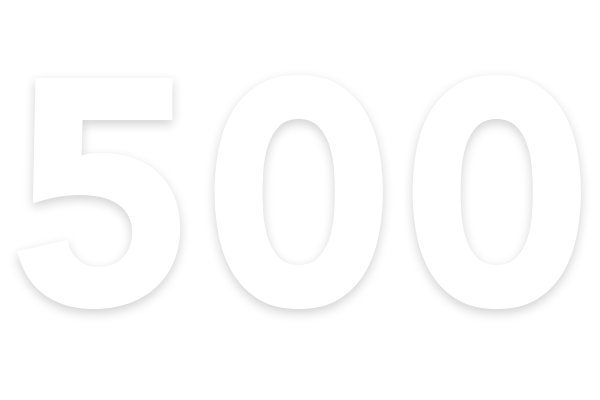
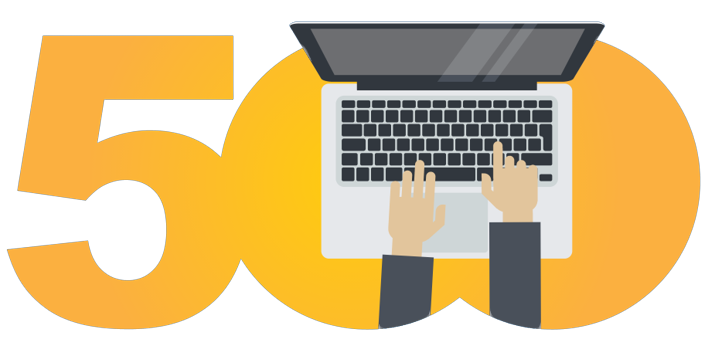
feat: create an error page

diff --git a/layouts/error.vue b/layouts/error.vue
@@ -1,18 +1,16 @@
 <template>
-	<div class="container text-center">
-		<div v-if="statusCode === 404" class="mb-24">
-			<img v-lazy-load data-src="~assets/img/404.png" alt="" />
-			<p class="h2 text-primary">
-				Maaf, halaman yang kamu cari untuk saat ini sedang tidak tersedia.
-			</p>
+	<div class="error sticky-footer-container-item --pushed">
+		<div class="container text-center">
+			<div v-if="statusCode === 404" class="mb-24">
+				<img v-lazy-load data-src="~assets/img/404.png" alt="" />
+				<p class="h2">Maaf, halaman yang sedang Anda cari tidak tersedia.</p>
+			</div>
+			<div v-else class="mb-24">
+				<img v-lazy-load data-src="~assets/img/500.png" alt="" />
+				<p class="h2">Maaf, saat ini sedang terjadi kesalahan basis data.</p>
+			</div>
+			<a class="btn--primary" href="/">KEMBALI KE HALAMAN AWAL</a>
 		</div>
-		<div v-else class="mb-24">
-			<img v-lazy-load data-src="~assets/img/500.png" alt="" />
-			<p class="h2 text-primary">
-				Maaf, saat ini sedang terjadi kesalahan basis data.
-			</p>
-		</div>
-		<a class="btn--primary" href="/">Return to Home</a>
 	</div>
 </template>
 
@@ -42,6 +40,11 @@ export default {
 </script>
 
 <style lang="scss" scoped>
+.error {
+	background-color: $primary-blue;
+	color: white;
+	width: 100%;
+}
 .container {
 	padding: 60px 0;
 	max-width: 590px !important;
